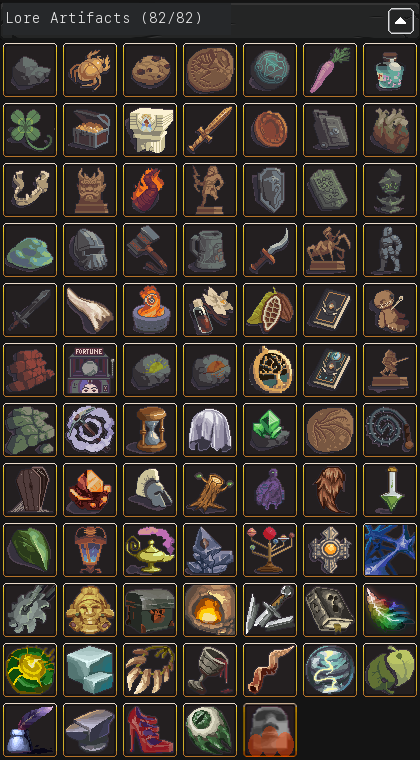
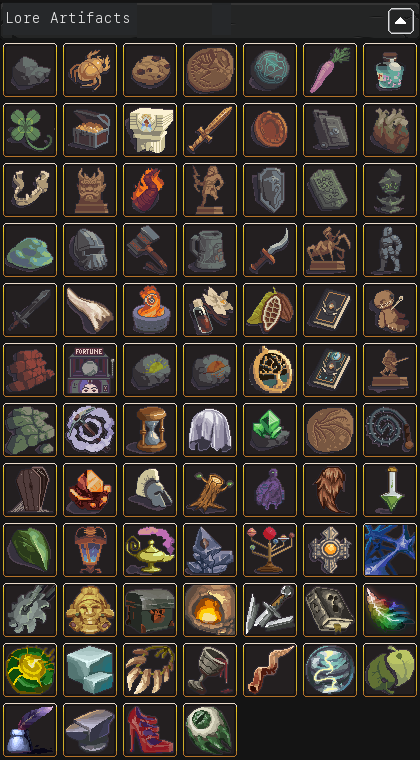
Correct Mask of Scorch'Rah artifact classification

Changed region(s): [[0.5571, 0.9079, 0.7119, 0.9987], [0.3405, 0.0, 0.4643, 0.0303]]

diff --git a/Artifacts/index.php b/Artifacts/index.php
@@ -212,6 +212,13 @@
 		<p><b>Note</b>: Each Facility needs their respective artifact and this artifact to get their respective upgrade.</p>
 		<p><b>Chance</b>: ((2 * x) ^ 2 / 1,000,000,000 (1 B))%, where x is spent Research Budget.</p>
 	" coords="123,223,176,276" shape="rect">
+		<area research="
+	<p><b><img src=&quot;/realm/Factions/picks/MaskOfScorchRahArtifact.png&quot; align=&quot;middle&quot;> Mask of Scorch'Rah</b></p>
+		<p><b>Hint</b>: The time has come...</p>
+		<p><b>Description</b>: An otherworldly, ever-burning mask that continuously shifts burn marks over its surface.</p>
+		<p><b>Requirement</b>: A4+, R255+, 50,000+ Excavations and at least 4 Legacy upgrades purchased.</p>
+		<p><b>Chance</b>: (x / 1,000,000)%, where x is time spent in this Era, in seconds.</p>
+	" coords="183,223,236,276" shape="rect">
 	</map>
 	<map name="LoreArtifacts-map">
 		<area research="
@@ -852,13 +859,5 @@
 		<p><b>Requirement</b>: R235+, Dragon Faction, Ascension 4+, 10,000+ Excavations</p>
 		<p><b>Chance</b>: (ln(1 + x) / 20,000)%, where x is the highest amount of assistants you had in this Reincarnation.</p>
 	" coords="183,703,236,756" shape="rect">
-
-		<area research="
-	<p><b><img src=&quot;/realm/Factions/picks/MaskOfScorchRahArtifact.png&quot; align=&quot;middle&quot;> Mask of Scorch'Rah</b></p>
-		<p><b>Hint</b>: The time has come...</p>
-		<p><b>Description</b>: An otherworldly, ever-burning mask that continuously shifts burn marks over its surface.</p>
-		<p><b>Requirement</b>: A4+, R255+, 50,000+ Excavations and at least 4 Legacy upgrades purchased.</p>
-		<p><b>Chance</b>: (x / 1,000,000)%, where x is time spent in this Era, in seconds.</p>
-	" coords="243,703,296,756" shape="rect">
 	</map>
 <?php include "../scripts/footer.html"; ?>

diff --git a/QuestArtifacts/index.php b/QuestArtifacts/index.php
@@ -5,7 +5,7 @@
 <?php include "../scripts/header.html"; ?>
 	<h6><img src="/realm/Factions/picks/ArcheologyTopPage.png"></h6>
 	<p><b>Quest Artifacts <a href="/realm/LoreArtifacts" research="Lore Artifact page">Lore Artifacts</a></b></p>
-	<p>There are 24 Quest Artifacts that unlock other Factions, Research and Research Slots.</p>
+	<p>There are 25 Quest Artifacts that unlock other Factions, Research and Research Slots.</p>
 	<p><b><img src="/realm/Factions/picks/AncientStoneSlab1.png" align="middle"> Ancient Stoneslab 1</b></p>
 	<p><b>Description</b>: We discovered an ancient stone slab written in old scriptures. It appears to say something about Halls of Legends.</p>
 	<p><b>Requirement</b>: 5th Excavation</p>
@@ -144,4 +144,10 @@
 	<p><b>Effect</b>: Unlocks Facility Research upgrades</p>
 	<p><b>Note</b>: Each Facility needs their respective artifact and this artifact to get their respective upgrade.</p>
 	<p><b>Chance</b>: ((2 * x) ^ 2 / 1,000,000,000 (1 B))%, where x is spent Research Budget.</p>
+	<hr>
+	<p><b><img src="/realm/Factions/picks/MaskOfScorchRahArtifact.png" align="middle"> Mask of Scorch'Rah</b></p>
+	<p><b>Hint</b>: The time has come...</p>
+	<p><b>Description</b>: An otherworldly, ever-burning mask that continuously shifts burn marks over its surface.</p>
+	<p><b>Requirement</b>: A4+, R255+, 50,000+ Excavations and at least 4 Legacy upgrades purchased.</p>
+	<p><b>Chance</b>: (x / 1,000,000)%, where x is time spent in this Era, in seconds.</p>
 <?php include "../scripts/footer.html"; ?>

diff --git a/LoreArtifacts/index.php b/LoreArtifacts/index.php
@@ -567,10 +567,4 @@
 	<p><b>Description</b>: The ultimate thrill of the fight.</p>
 	<p><b>Requirement</b>: R235+, Dragon Faction, Ascension 4+, 10,000+ Excavations</p>
 	<p><b>Chance</b>: (ln(1 + x) / 20,000)%, where x is the highest amount of assistants you had in this Reincarnation.</p>
-	<hr>
-	<p><b><img src="/realm/Factions/picks/MaskOfScorchRahArtifact.png" align="middle"> Mask of Scorch'Rah</b></p>
-	<p><b>Hint</b>: The time has come...</p>
-	<p><b>Description</b>: An otherworldly, ever-burning mask that continuously shifts burn marks over its surface.</p>
-	<p><b>Requirement</b>: A4+, R255+, 50,000+ Excavations and at least 4 Legacy upgrades purchased.</p>
-	<p><b>Chance</b>: (x / 1,000,000)%, where x is time spent in this Era, in seconds.</p>
 <?php include "../scripts/footer.html"; ?>
